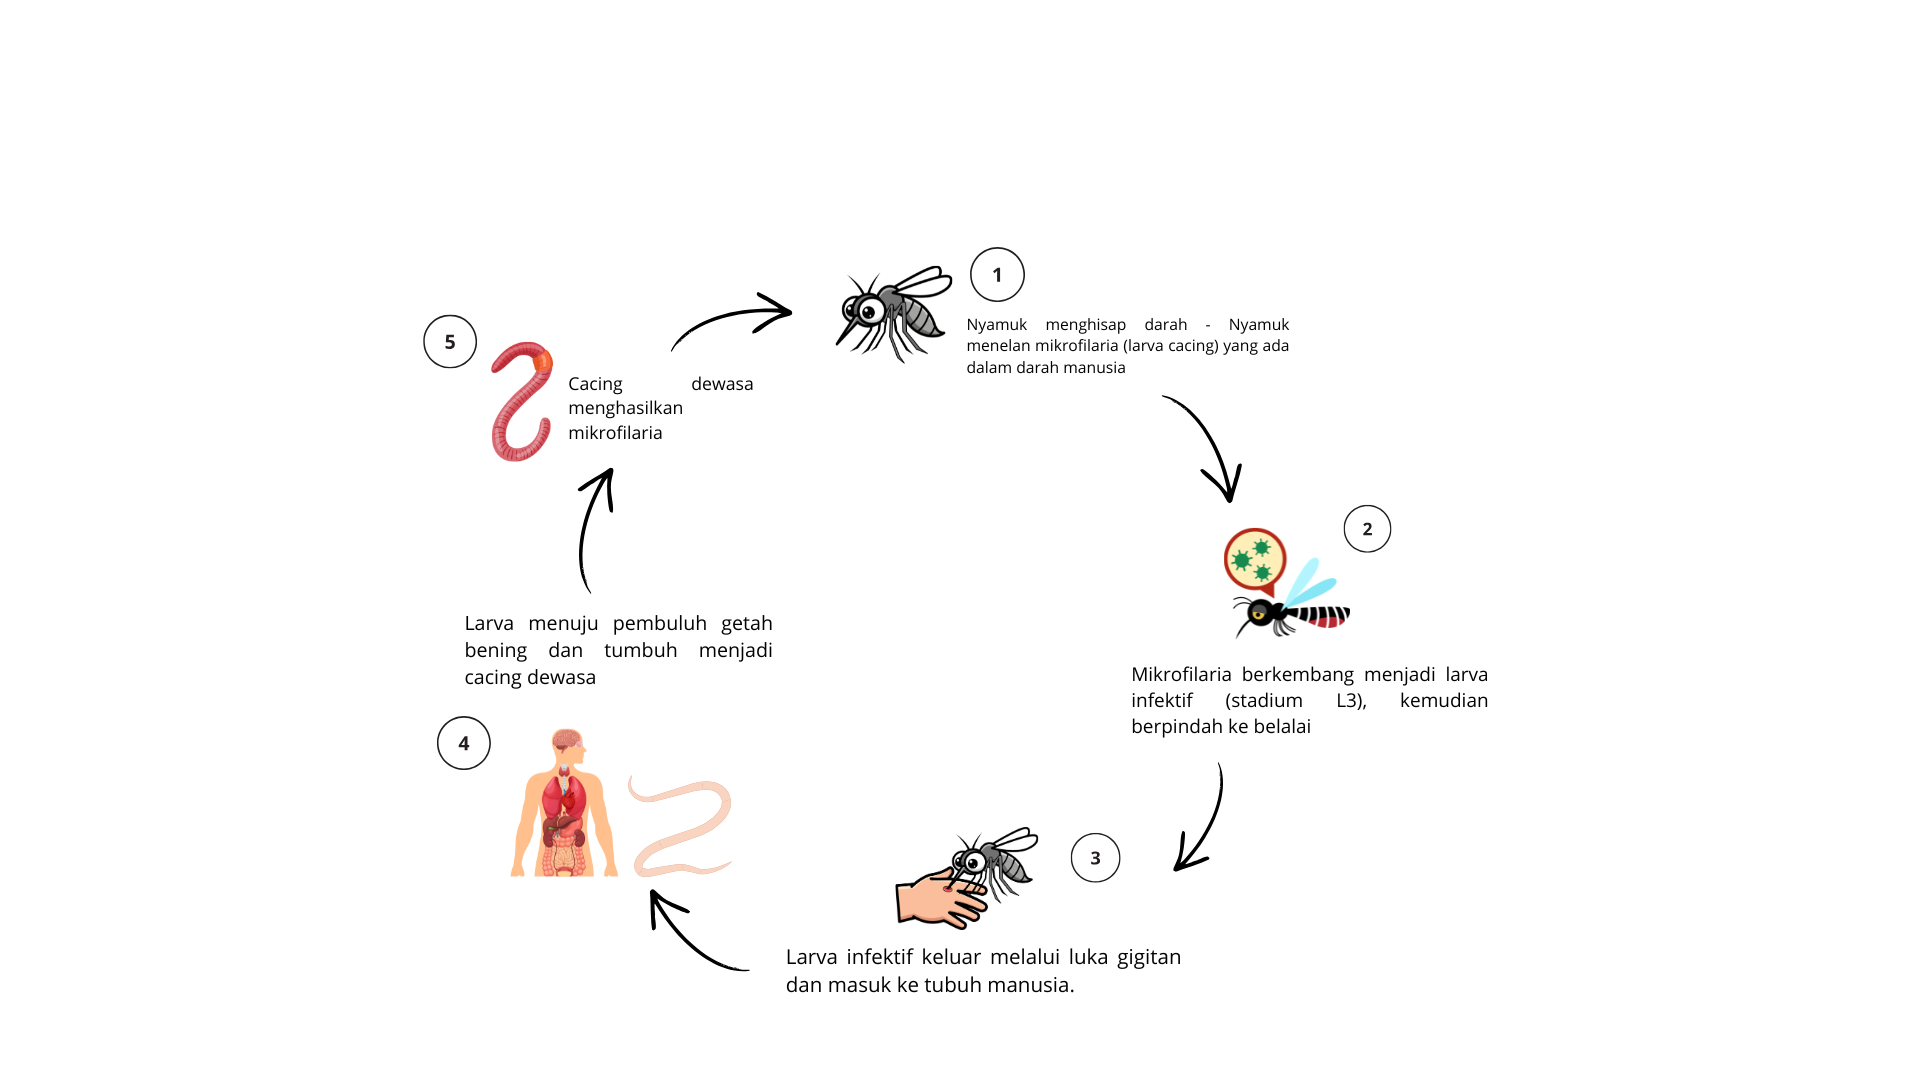
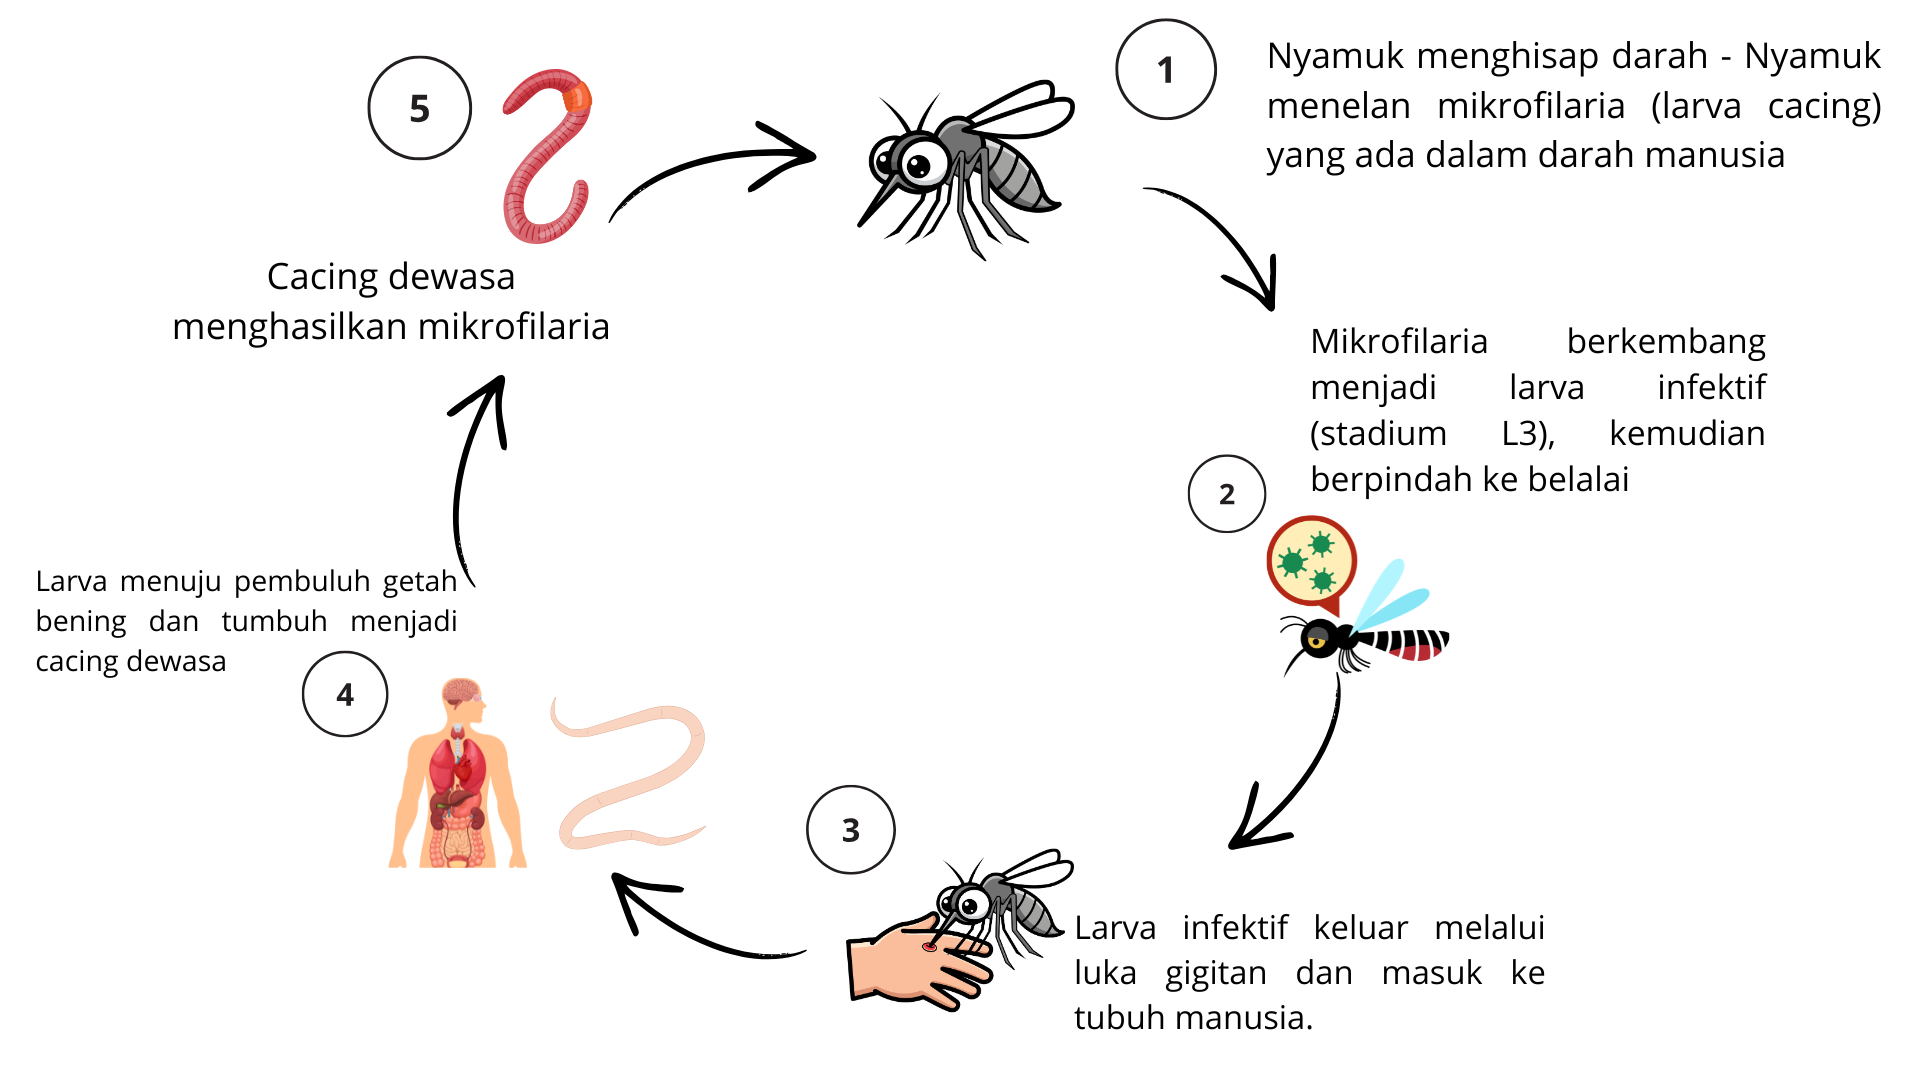
card update

diff --git a/filariasis-care/edukasi.html b/filariasis-care/edukasi.html
@@ -239,27 +239,27 @@
                     <div id="mitosFaktaCarousel" class="carousel slide" data-bs-ride="carousel">
                         <div class="carousel-inner rounded-4 shadow-sm">
                             <div class="carousel-item active">
-                                <img src="/filariasiscare_assets/edukasi/mitosfakta/Card_1.png" class="d-block w-100"
+                                <img src="/filariasiscare_assets/edukasi/mitosfakta/Card_01.png" class="d-block w-100"
                                     alt="Mitos Fakta 1">
                             </div>
                             <div class="carousel-item">
-                                <img src="/filariasiscare_assets/edukasi/mitosfakta/Card_2.png" class="d-block w-100"
+                                <img src="/filariasiscare_assets/edukasi/mitosfakta/Card_02.png" class="d-block w-100"
                                     alt="Mitos Fakta 2">
                             </div>
                             <div class="carousel-item">
-                                <img src="/filariasiscare_assets/edukasi/mitosfakta/Card_3.png" class="d-block w-100"
+                                <img src="/filariasiscare_assets/edukasi/mitosfakta/Card_03.png" class="d-block w-100"
                                     alt="Mitos Fakta 3">
                             </div>
                             <div class="carousel-item">
-                                <img src="/filariasiscare_assets/edukasi/mitosfakta/Card_4.png" class="d-block w-100"
+                                <img src="/filariasiscare_assets/edukasi/mitosfakta/Card_04.png" class="d-block w-100"
                                     alt="Mitos Fakta 4">
                             </div>
                             <div class="carousel-item">
-                                <img src="/filariasiscare_assets/edukasi/mitosfakta/Card_5.png" class="d-block w-100"
+                                <img src="/filariasiscare_assets/edukasi/mitosfakta/Card_05.png" class="d-block w-100"
                                     alt="Mitos Fakta 5">
                             </div>
                             <div class="carousel-item">
-                                <img src="/filariasiscare_assets/edukasi/mitosfakta/Card_6.png" class="d-block w-100"
+                                <img src="/filariasiscare_assets/edukasi/mitosfakta/Card_06.png" class="d-block w-100"
                                     alt="Mitos Fakta 6">
                             </div>
                         </div>
